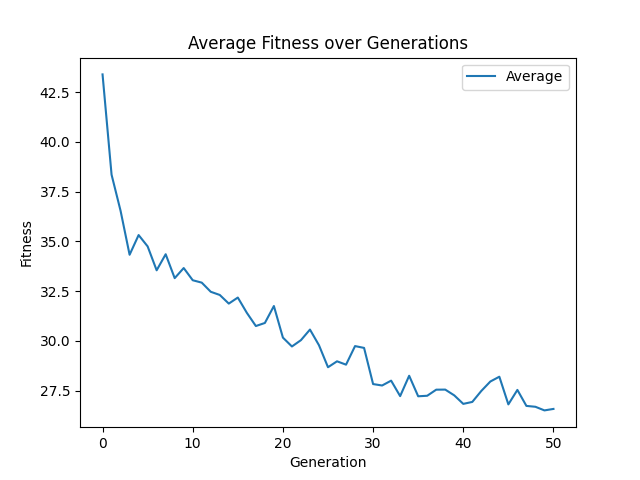
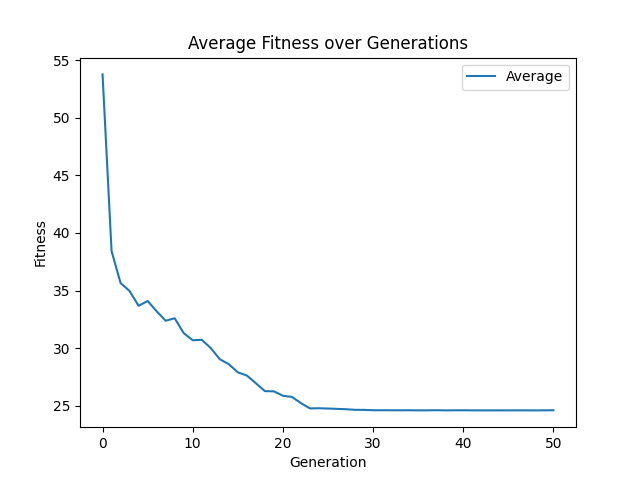
Add files via upload

diff --git a/RiceProblem/RiceProblem.py b/RiceProblem/RiceProblem.py
@@ -10,15 +10,15 @@ import time
 import matplotlib.pyplot as plt
 import matplotlib
 matplotlib.use('TkAgg')
-pop_size = 500
+pop_size = 400
 num_genes = 5
 terminals = ['Area','Perimeter','Major_Axis_Length','Minor_Axis_Length','Eccentricity','Convex_Area','Extent']
 minInitDepth = 2
 maxInitDepth = 3
-max_global_depth = 6
+max_global_depth = 4
 max_crossover_growth = 2
 max_mutation_growth = 2
-mutation_rate = 0.25
+mutation_rate = 0.3
 crossover_rate = 0.9
 num_generations = 50
 elitism_size = 1
@@ -175,49 +175,48 @@ def main(seed=7246325):
                 best_individual = individual
         return best_individual
 
-    def evolve_population(population, data_points, terminals, max_depth, mutation_rate, elitism_size, crossover_rate):
+    def tournament_selection2(population_with_fit_and_models, tournament_size=3):
+        tournament = random.sample(population_with_fit_and_models, tournament_size)
+        best_fitness = float('inf')
+        best_individual = None
+        for individual in tournament:
+            fitness = individual[1]
+            if fitness < best_fitness:
+                best_fitness = fitness
+                best_individual = individual
+        return best_individual[0]
+
+    def evolve_population(population, terminals, max_depth, mutation_rate, elitism_size, crossover_rate):
         new_population = []
+        population_with_fit_and_models = population
 
-        population_with_models = [(ind, multi_gene_fitness(ind, data_points)[1]) for ind in population]
+        sorted_population_with_fit_and_models = sorted(population_with_fit_and_models, key=lambda x: x[1])
 
-        sorted_population_with_models = sorted(population_with_models,
-                                               key=lambda x: multi_gene_fitness(x[0], data_points)[0])
-
-        elites_with_models = sorted_population_with_models[:elitism_size]
+        elites_with_fit_and_models = sorted_population_with_fit_and_models[:elitism_size]
         elites = [copy.deepcopy(elite[0]) for elite in
-                  elites_with_models]
+                  elites_with_fit_and_models]
         new_population.extend(elites)
 
         while len(new_population) < len(population):
             if random.random() < crossover_rate:
-                parent1 = tournament_selection(population, data_points)
-                parent2 = tournament_selection(population, data_points)
-                offspring1, offspring2 = one_point_crossover(parent1, parent2, max_global_depth, max_crossover_growth)
+                parent1 = tournament_selection2(population_with_fit_and_models)
+                parent2 = tournament_selection2(population_with_fit_and_models)
+                offspring1, offspring2 = one_point_crossover(parent1, parent2, max_depth, max_crossover_growth)
                 new_population.extend([offspring1, offspring2][:len(population) - len(new_population)])
             else:
-                individual = tournament_selection(population, data_points)
+                individual = tournament_selection2(population_with_fit_and_models)
                 new_population.append(individual)
 
         for i in range(len(new_population)):
             if random.random() < mutation_rate and i >= elitism_size:
-                new_population[i] = mutate(new_population[i], terminals, max_depth, max_mutation_growth=max_mutation_growth)
-
-        new_population_with_models = [(ind, multi_gene_fitness(ind, data_points)[1]) for ind in new_population]
-
-        return [ind[0] for ind in new_population_with_models]
-
-    def predict_output(model, genes, new_data_points):
-        X_new = np.array([[gene.evaluate(data) for gene in genes] for data in new_data_points])
-
-        predictions = model.predict(X_new)
-        return predictions
-
+                new_population[i] = mutate(new_population[i], terminals, max_depth,
+                                           max_mutation_growth=max_mutation_growth)
+        return new_population
     def readData(filepath):
         with open(filepath, 'r') as f:
             data, meta = arff.loadarff(f)
         # Convert the 'data' attribute to a NumPy array and decode byte strings
         return np.array([[element.decode() if isinstance(element, bytes) else element for element in row] for row in np.array(data)])
-
 
     fullData = readData("Rice_Cammeo_Osmancik.arff").tolist()
     random.shuffle(fullData)
@@ -246,14 +245,15 @@ def main(seed=7246325):
     genMaxs = []
     genMeds = []
     population = initialize_population(pop_size, num_genes, terminals, maxInitDepth)
+    population_with_fit_and_models = []
     for individual in population:
-        idv = individual
         fitness, model = multi_gene_fitness(individual,
                                             training_data_points)  # Ensure this should be multi_gene_fitness_torch if using GPU
+        population_with_fit_and_models.append([individual, fitness, model])
         genFitness.append(fitness)
         if fitness < best_fitness_global:
             best_fitness_global = fitness
-            best_individual_global = copy.deepcopy(idv)
+            best_individual_global = copy.deepcopy(individual)
             best_model_global = model
             best_index = population.index(individual)
     genAvgs.append(np.mean(genFitness))
@@ -264,13 +264,15 @@ def main(seed=7246325):
     print(f"Generation 0: Best Fitness = {best_fitness_global}")
     for gen in range(num_generations):
         genFitness = []
-        population = evolve_population(population, training_data_points, terminals, max_global_depth, mutation_rate, elitism_size,
+        population = evolve_population(population_with_fit_and_models, terminals, max_global_depth, mutation_rate, elitism_size,
                                        crossover_rate)
         index = 0
+        population_with_fit_and_models = []
         for individual in population:
             idv = individual
             fitness, model = multi_gene_fitness(individual,
                                                 training_data_points)  # Ensure this should be multi_gene_fitness_torch if using GPU
+            population_with_fit_and_models.append([idv, fitness, model])
             genFitness.append(fitness)
             if fitness < best_fitness_global:
                 best_fitness_global = fitness
@@ -295,27 +297,27 @@ def main(seed=7246325):
 
     print(
         f"Best individual found in {formatted_time} - Generation {best_generation} with Fitness = {best_fitness_global}, index = {best_index}")
-    # print(predict_output(best_model_global, best_individual_global, new_data_points))
-    return [genAvgs, genMins, genMaxs, genMeds], best_individual_global, best_model_global, testing_data_points
+    return [genAvgs, genMins, genMaxs, genMeds], best_individual_global, best_model_global, testing_data_points, best_fitness_global
 
 
 if __name__ == '__main__':
     random.seed(7246325)
     seeds = [random.randint(0, 100000000) for _ in range(10)]
-
     # Create a ProcessPoolExecutor
     with concurrent.futures.ProcessPoolExecutor() as executor:
         # Use map to execute main() function for each seed and maintain order
         all_results = list(executor.map(main, seeds))
     # Process or utilize the collected results as needed
+    #get index of best individual
+    best_fitness_index = [result[4] for result in all_results].index(min([result[4] for result in all_results]))
     accuracies = []
     for i in range(len(all_results)):
         print(f"Results for run {i+1}:")
         print(f"Stats (genAvg, genMin, genMax, genMed): {all_results[i][0]}")
-        print(f"y = {all_results[i][2].intercept_}")
+        print(f"prediction = {all_results[i][2].intercept_}")
         for gene, coef in zip(all_results[i][1], all_results[i][2].coef_):
-            print(f" - {-coef} * {gene}", end="") if coef < 0 else print(f" + {coef} * {gene}", end="")
-        print(f"Run {i+1} performance on testing data:")
+            print(f" - {-coef} * {gene}") if coef < 0 else print(f" + {coef} * {gene}")
+        print(f"\nRun {i+1} performance on testing data:")
         misses = 0
         for data in all_results[i][3]:
             prediction = all_results[i][2].predict([[gene.evaluate(data) for gene in all_results[i][1]]])
@@ -338,6 +340,10 @@ if __name__ == '__main__':
         grandMin.append(np.mean([result[0][1][gen] for result in all_results]))
         grandMax.append(np.mean([result[0][2][gen] for result in all_results]))
         grandMed.append(np.mean([result[0][3][gen] for result in all_results]))
+    print("Best individual:")
+    print(f"prediction = {all_results[np.argmax(accuracies)][2].intercept_}")
+    for gene, coef in zip(all_results[np.argmax(accuracies)][1], all_results[np.argmax(accuracies)][2].coef_):
+        print(f" - {-coef} * {gene}") if coef < 0 else print(f" + {coef} * {gene}")
     plt.plot(range(0, num_generations + 1), grandAvg, label='Average')
     plt.xlabel('Generation')
     plt.ylabel('Fitness')

diff --git a/generalCase/carvalhogp.py b/generalCase/carvalhogp.py
@@ -57,37 +57,47 @@ def tournament_selection(population, ops, data_points, fitnessFunc, fitCheck, wo
             best_individual = individual
     return best_individual
 
+def tournament_selection2(population_with_fit_and_models, fitCheck, worstScore, tournament_size=3):
+    tournament = random.sample(population_with_fit_and_models, tournament_size)
+    best_fitness = worstScore
+    best_individual = None
+    for individual in tournament:
+        fitness = individual[1]
+        if fitCheck(fitness, best_fitness):
+            best_fitness = fitness
+            best_individual = individual
+    return best_individual[0]
 
-def evolve_population(population, data_points, terminals, arity, ops, max_depth, mutation_rate, elitism_size, crossover_rate, fitness_func, max_crossover_growth, max_mutation_growth, fitCheck, worstScore, fitnessType):
+def evolve_population(population, terminals, arity, ops, max_depth, mutation_rate, elitism_size, crossover_rate, fitness_func, max_crossover_growth, max_mutation_growth, fitCheck, worstScore, fitnessType):
     new_population = []
-
-    population_with_models = [(ind, fitness_func(ind, ops, data_points)[1]) for ind in population]
+    population_with_fit_and_models = population
 
     if fitnessType == "Minimize":
-        sorted_population_with_models = sorted(population_with_models, key=lambda x: fitness_func(x[0], ops, data_points)[0])
+        sorted_population_with_fit_and_models = sorted(population_with_fit_and_models, key=lambda x: x[1])
     else:
-        sorted_population_with_models = sorted(population_with_models, key=lambda x: fitness_func(x[0], ops, data_points)[0], reverse=True)
-    elites_with_models = sorted_population_with_models[:elitism_size]
+        sorted_population_with_fit_and_models = sorted(population_with_fit_and_models, key=lambda x: x[1], reverse=True)
+    elites_with_fit_and_models = sorted_population_with_fit_and_models[:elitism_size]
     elites = [copy.deepcopy(elite[0]) for elite in
-              elites_with_models]
+              elites_with_fit_and_models]
     new_population.extend(elites)
 
     while len(new_population) < len(population):
         if random.random() < crossover_rate:
-            parent1 = tournament_selection(population, ops, data_points, fitness_func, fitCheck, worstScore)
-            parent2 = tournament_selection(population, ops, data_points, fitness_func, fitCheck, worstScore)
+            parent1 = tournament_selection2(population_with_fit_and_models, fitCheck, worstScore)
+            parent2= tournament_selection2(population_with_fit_and_models, fitCheck, worstScore)
             offspring1, offspring2 = one_point_crossover(parent1, parent2, max_depth, max_crossover_growth)
             new_population.extend([offspring1, offspring2][:len(population) - len(new_population)])
         else:
-            individual = tournament_selection(population, ops, data_points, fitness_func, fitCheck, worstScore)
+            individual = tournament_selection2(population_with_fit_and_models, fitCheck, worstScore)
             new_population.append(individual)
 
     for i in range(len(new_population)):
         if random.random() < mutation_rate and i >= elitism_size:
             new_population[i] = mutate(new_population[i], terminals, arity, ops, max_depth, max_mutation_growth=max_mutation_growth)
 
-    new_population_with_models = [(ind, fitness_func(ind, ops, data_points)[1]) for ind in new_population]
-    return [ind[0] for ind in new_population_with_models]
+
+
+    return new_population
 
 
 class Node:
@@ -141,7 +151,7 @@ def lt(a, b):
     return a < b
 def gt(a, b):
     return a > b
-def main(seed, pop_size, num_genes, terminals, arity, ops,
+def runGP(seed, pop_size, num_genes, terminals, arity, ops,
          fitnessFunc, minInitDepth, maxInitDepth,
          max_global_depth, mutation_rate, max_mutation_growth, elitism_size,
          crossover_rate, max_crossover_growth, num_generations, data, fitnessType):
@@ -167,13 +177,14 @@ def main(seed, pop_size, num_genes, terminals, arity, ops,
     genMaxs = []
     genMeds = []
     population = initialize_population(pop_size, num_genes, terminals, arity, ops, minInitDepth, maxInitDepth)
+    population_with_fit_and_models = []
     for individual in population:
-        idv = individual
         fitness, model = fitnessFunc(individual, ops, data)  # Ensure this should be multi_gene_fitness_torch if using GPU
+        population_with_fit_and_models.append([individual, fitness, model])
         genFitness.append(fitness)
         if fitCheck(fitness, best_fitness_global):
             best_fitness_global = fitness
-            best_individual_global = copy.deepcopy(idv)
+            best_individual_global = copy.deepcopy(individual)
             best_model_global = model
             best_index = population.index(individual)
     genAvgs.append(np.mean(genFitness))
@@ -183,12 +194,14 @@ def main(seed, pop_size, num_genes, terminals, arity, ops,
     print(f"Generation 0: Best Fitness = {best_fitness_global}")
     for gen in range(num_generations):
         genFitness = []
-        population = evolve_population(population, data, terminals, arity, ops, max_global_depth, mutation_rate, elitism_size,
+        population = evolve_population(population_with_fit_and_models, terminals, arity, ops, max_global_depth, mutation_rate, elitism_size,
                                        crossover_rate, fitnessFunc, max_crossover_growth, max_mutation_growth, fitCheck, worstScore, fitnessType)
         index = 0
+        population_with_fit_and_models = []
         for individual in population:
             idv = individual
             fitness, model = fitnessFunc(individual, ops, data)  # Ensure this should be multi_gene_fitness_torch if using GPU
+            population_with_fit_and_models.append([idv, fitness, model])
             genFitness.append(fitness)
             if fitCheck(fitness, best_fitness_global):
                 best_fitness_global = fitness
@@ -213,5 +226,4 @@ def main(seed, pop_size, num_genes, terminals, arity, ops,
 
     print(
         f"Best individual found in {formatted_time} - Generation {best_generation} with Fitness = {best_fitness_global}, index = {best_index}")
-    # print(predict_output(best_model_global, best_individual_global, new_data_points))
     return [genAvgs, genMins, genMaxs, genMeds], best_individual_global, best_model_global

diff --git a/generalCase/exampleUsage.py b/generalCase/exampleUsage.py
@@ -16,7 +16,7 @@ def protected_division(x, y):
         return 1
     return x / y
 def call_main(args):
-    return carvalhogp.main(*args)
+    return carvalhogp.runGP(*args)
 def multi_gene_fitness(individual, ops, data_points):
     X = np.array([[gene.evaluate(data, ops) for gene in individual] for data in data_points])
     y = np.array([data['actual'] for data in data_points])
@@ -45,7 +45,7 @@ if __name__ == '__main__':
     crossover_rate = 0.9
     num_generations = 50
     elitism_size = 1
-    fitnessType = "Maximize"
+    fitnessType = "Minimize"
 
     #User Defined Language
     ops = {
@@ -71,7 +71,7 @@ if __name__ == '__main__':
     #User Defined Data
     def target_function(x):
         return protected_division((math.sin(x) * math.cos(x)), (math.tan(x) + 1)) + (
-                x ** 3 - 2 * x ** 2 + 5 * x - 3) * math.sin(x)
+                x ** 3 - 2 * x ** 2 + 5 * x - 3) * math.sin(x) * 0.5
     def readData(filepath):
         with open(filepath, 'r') as f:
             dataset, meta = arff.loadarff(f)
